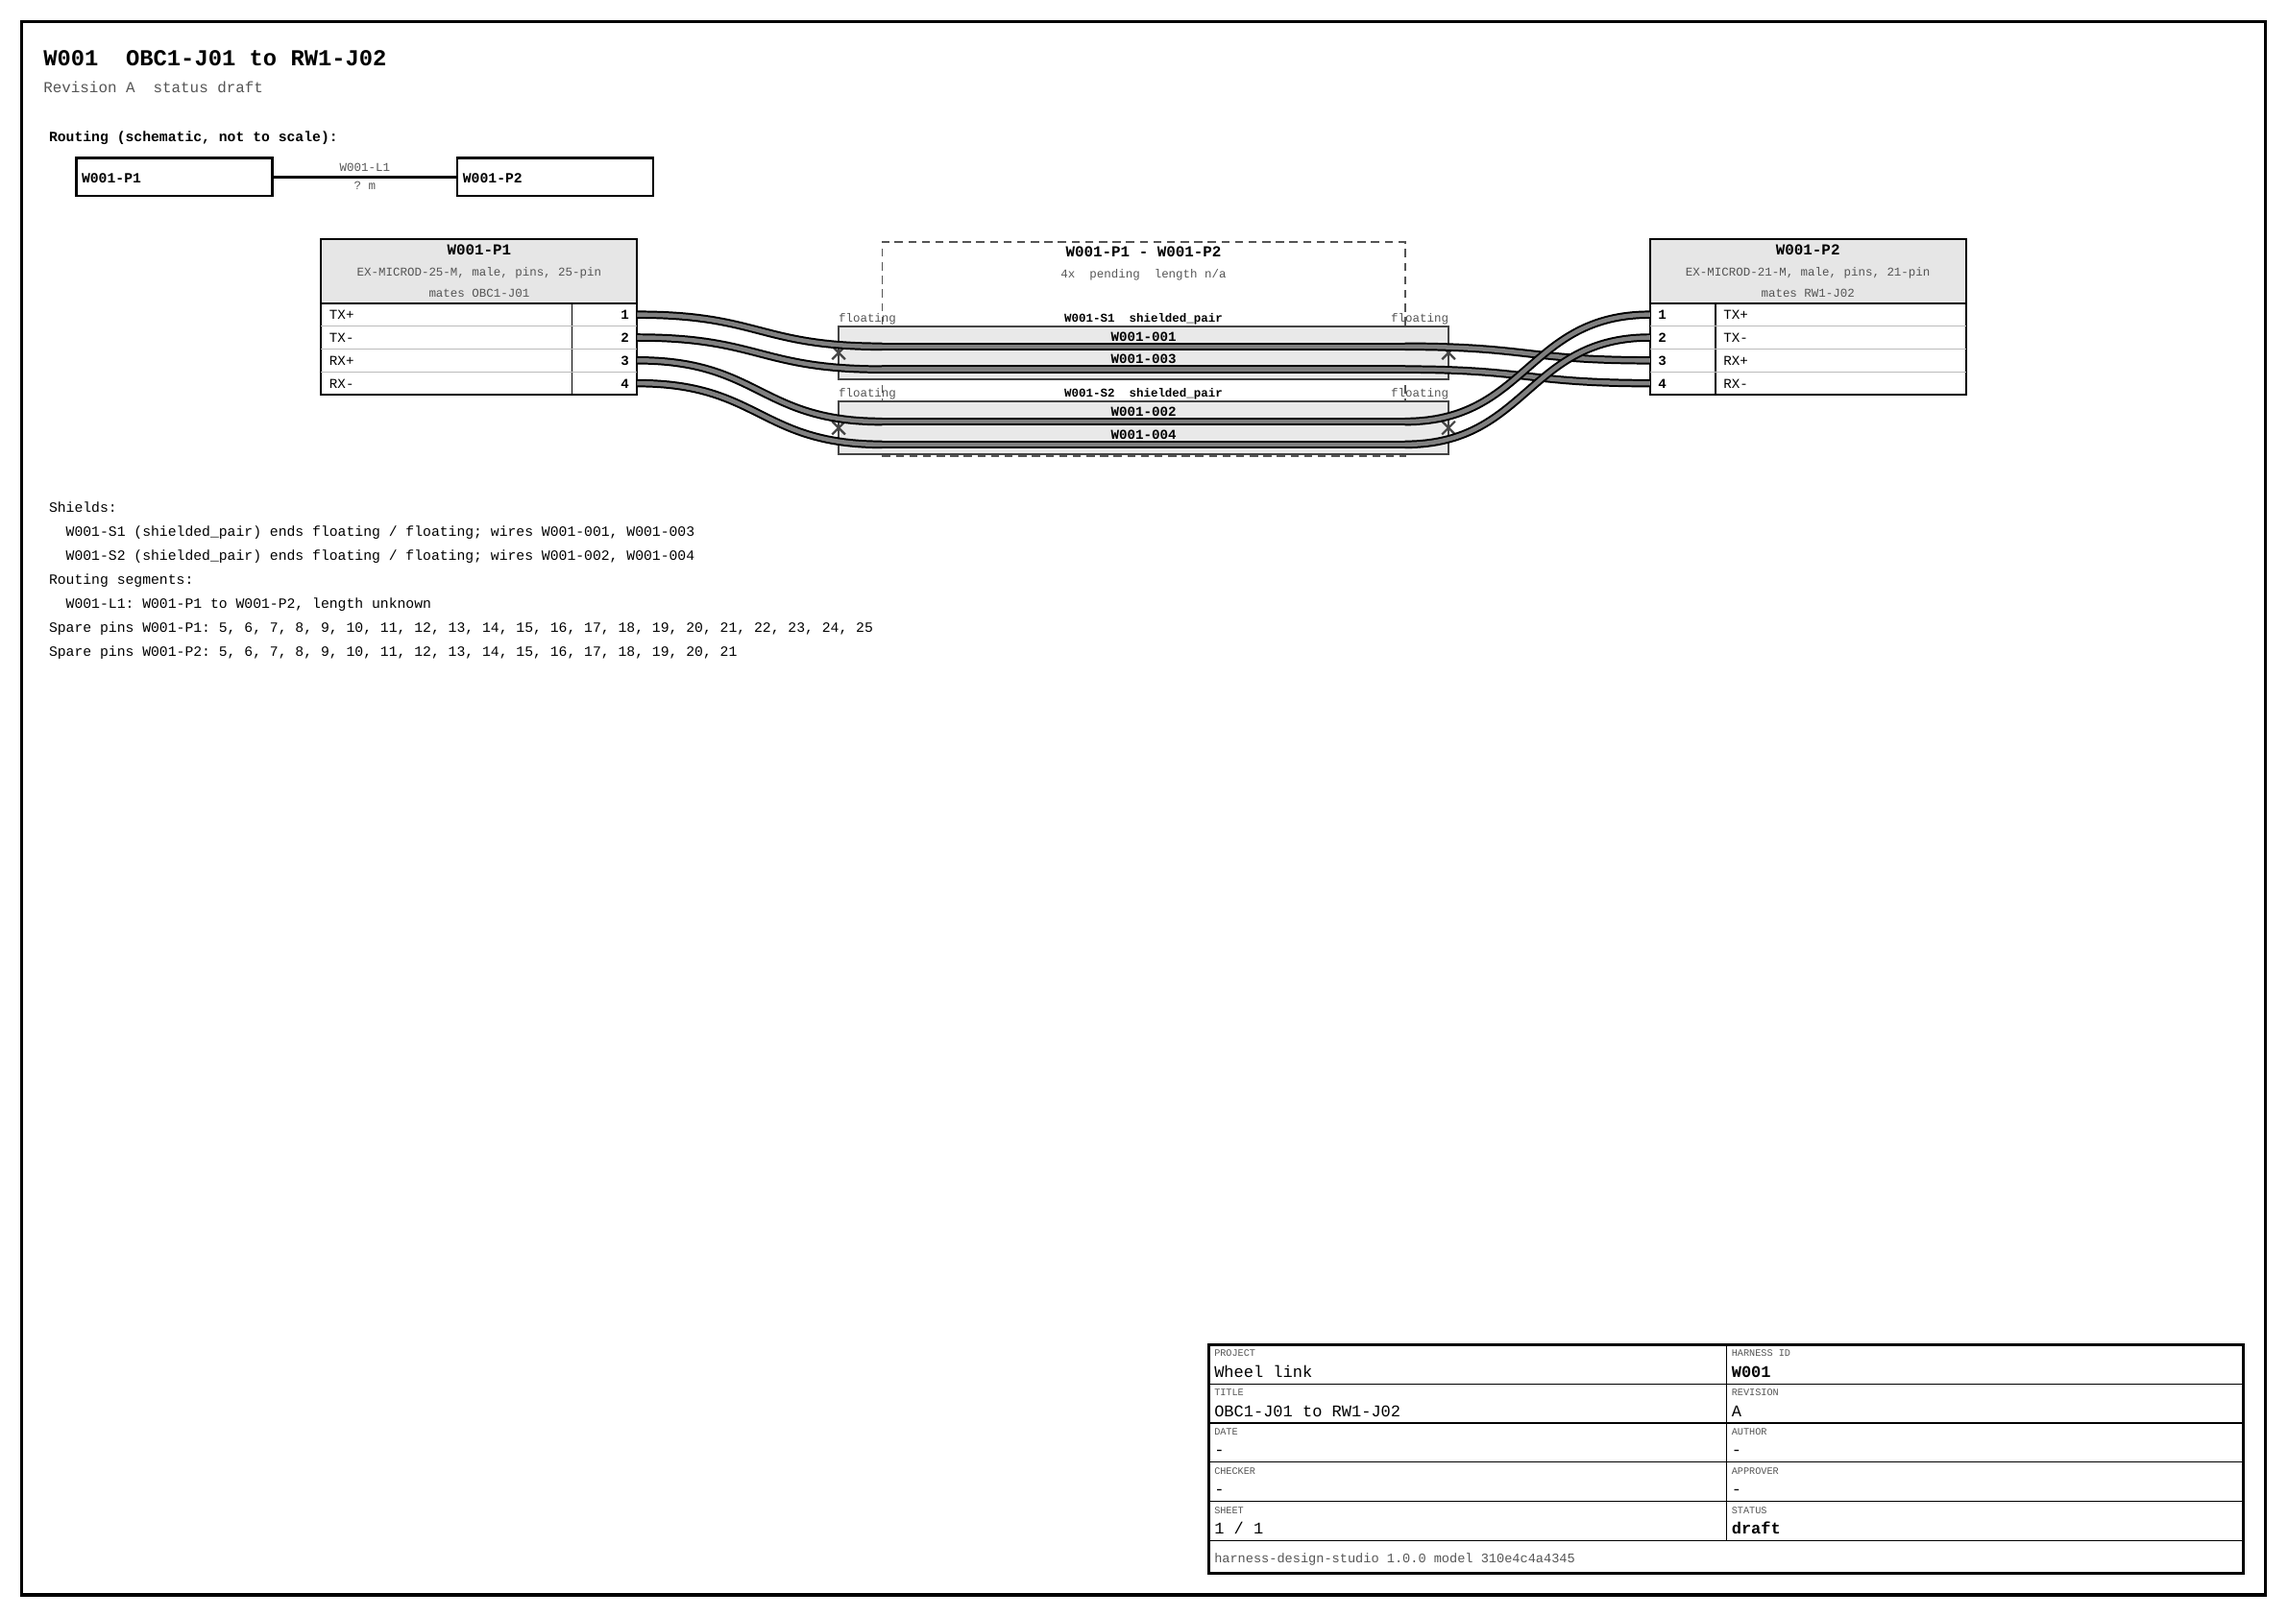
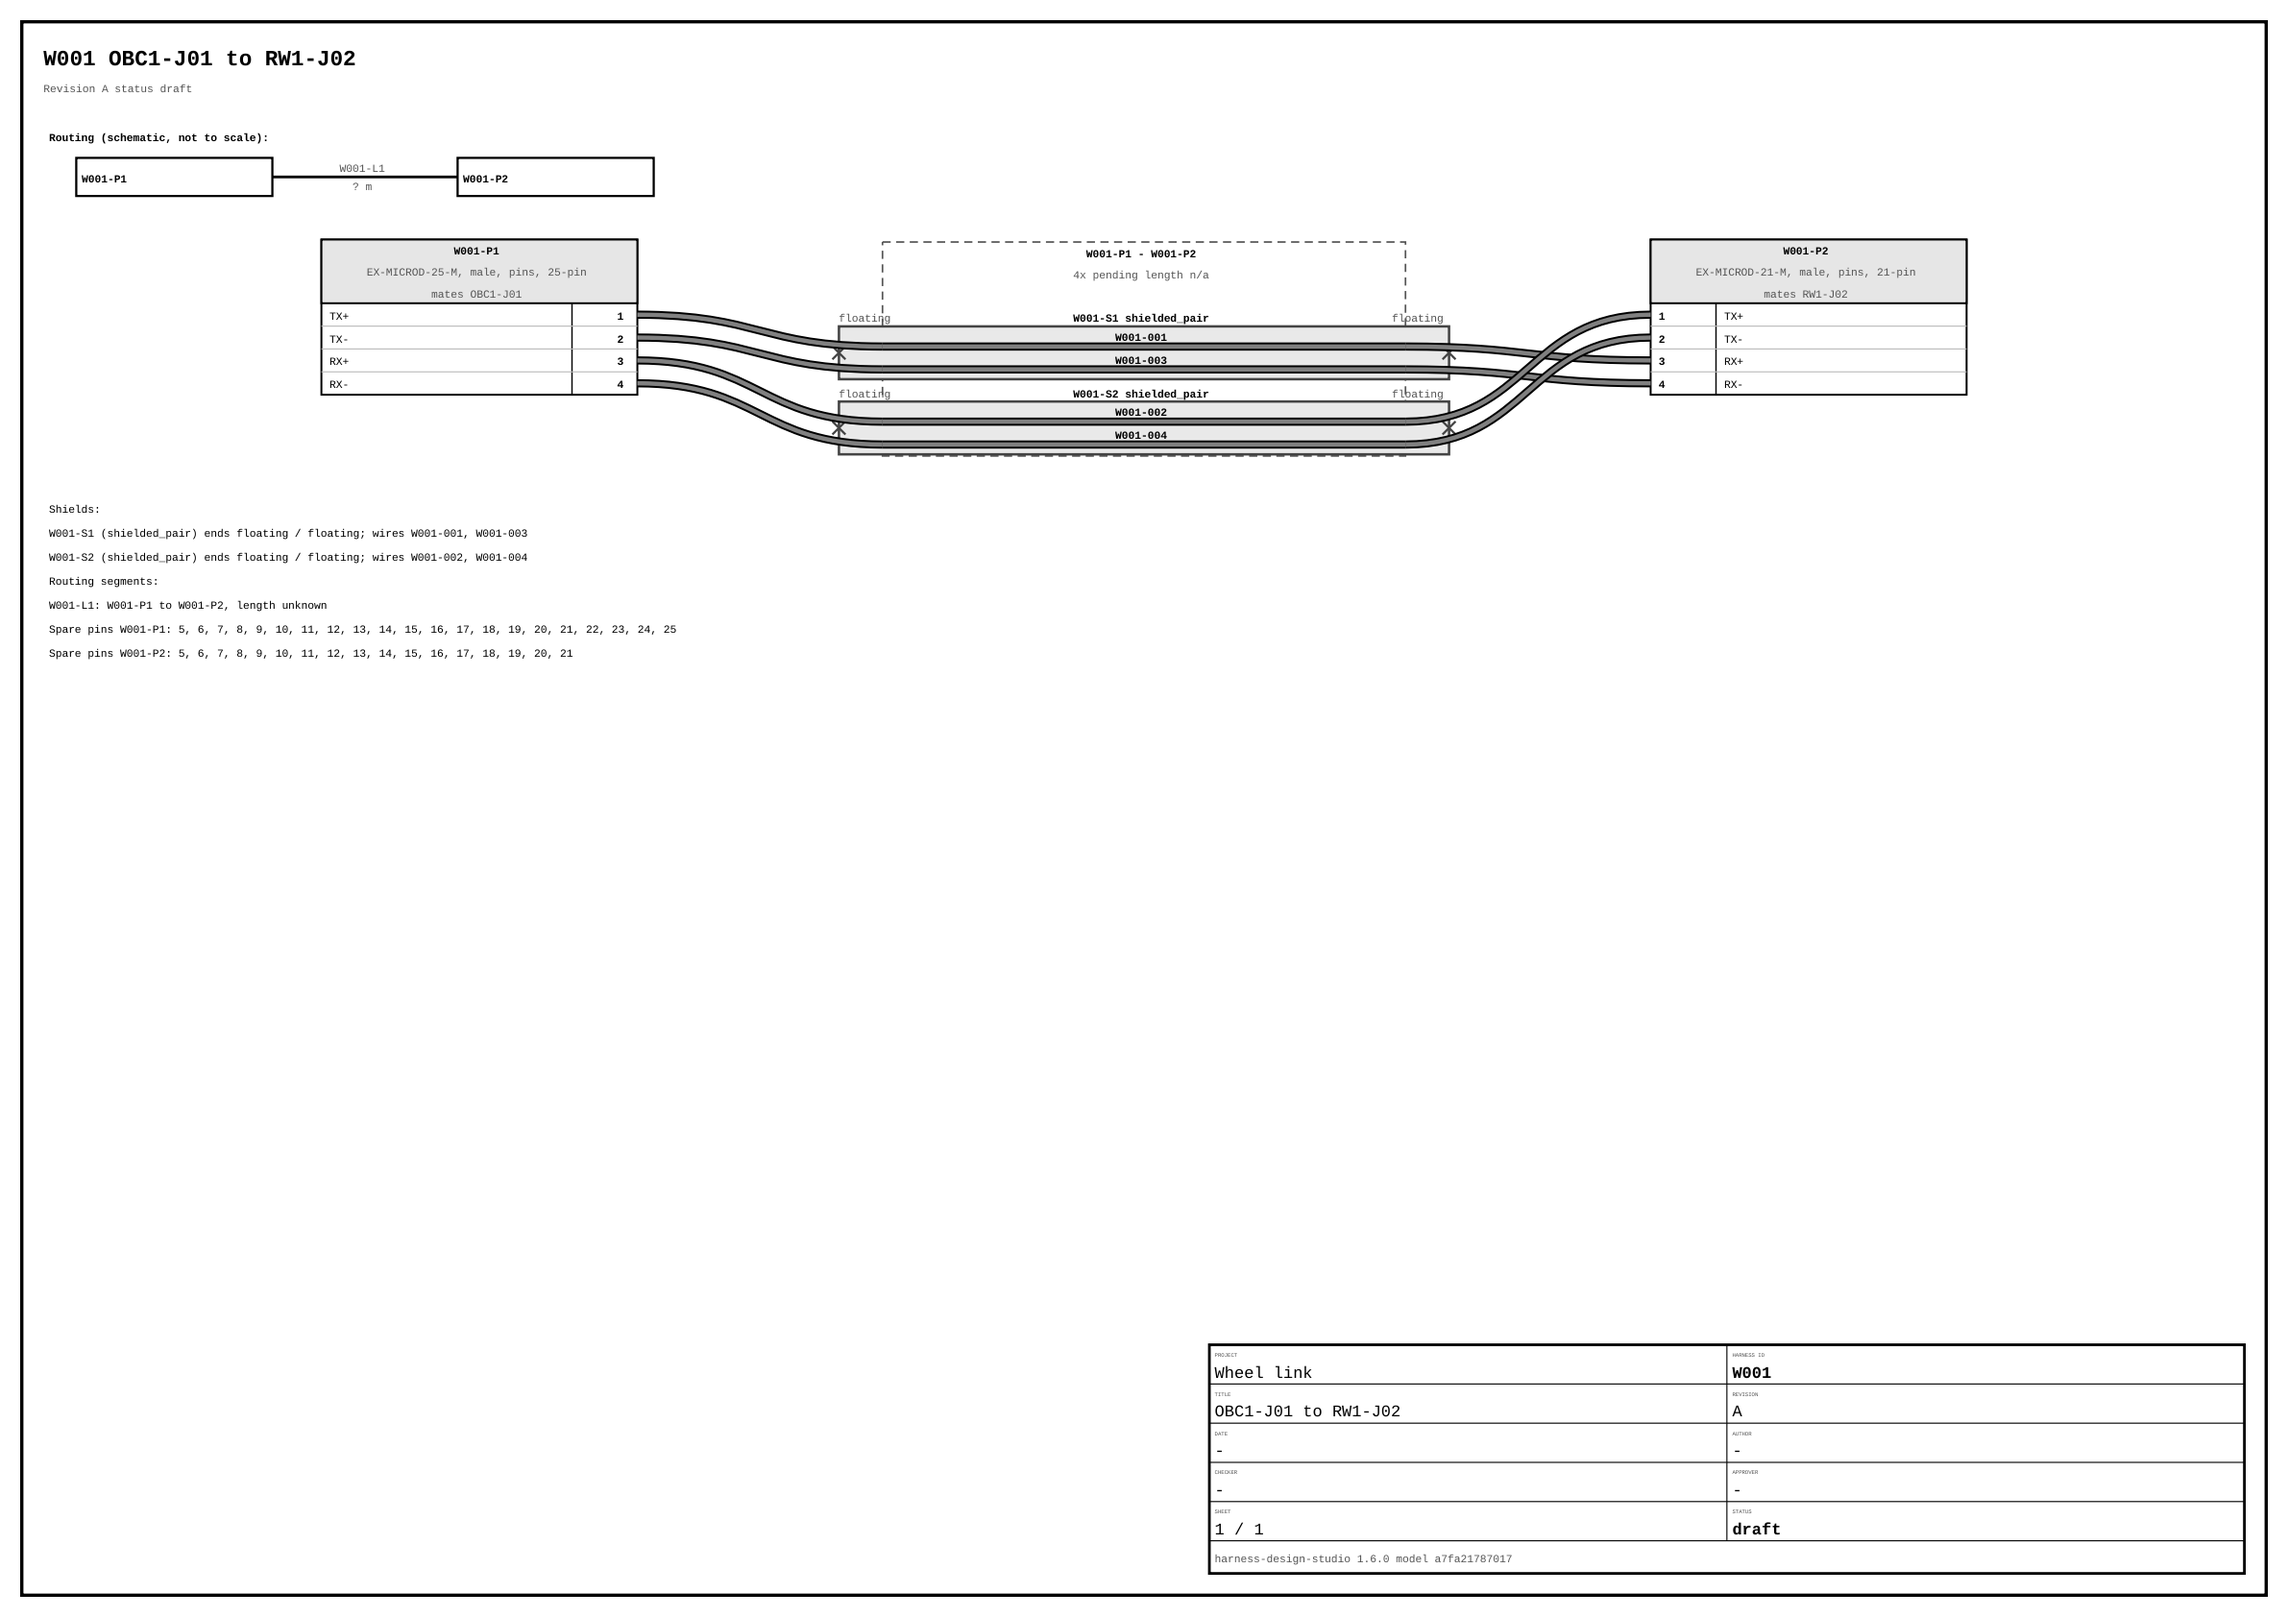
Pictures redone with 1.6.0: the tutorial drawings (version and model hash), the tab pictures and the main window
The two tutorial drawings carried version 1.0.0 and the model hash 310e4c4a4345; they are now the W001 sheet and the
block diagram of the first export of the tutorial (1.6.0, a7fa21787017). docs-maintenance.md says how to redo them.

Claude-Session: https://claude.ai/code/session_01K7PmjFJdKvkUGQzZA5G9xT

diff --git a/HarnessDesignStudio/docs/developer/docs-maintenance.md b/HarnessDesignStudio/docs/developer/docs-maintenance.md
@@ -39,11 +39,11 @@ The tutorial `docs/GETTING_STARTED.md` is not generated, but `test_docs.py` runs
 
 | Pictures | Made by | Notes |
 | --- | --- | --- |
-| `docs/ux/qt/*.png` (the editor) | `QT_QPA_PLATFORM=offscreen python -m tools.gui_screenshots` | 26 pictures at 1440 x 900 (light theme): 01 to 13 show the built-in sample (tour, Guided and Expert, connecting, problems, import preview, delete, waiver, palette, dark theme, 150 %); 14 and up show the flatsat example (project tree and inspector, Harness, Lists, Checks, engineering values, plans out of date, export window, released locks, Releases, new revision, new project, import wizard, release dialog). The script waits for the design rule check and for messages to go away, so it takes about a minute. The project path in the status bar is a fixed folder under the system temp folder, so that runs match. In repeated runs on the machine used, 24 of the 26 files came out identical every time; 06 and 07 now and then differ by about a hundred pixels of one link route. Check `git diff --stat` and keep only meaningful changes. |
+| `docs/ux/qt/*.png` (the editor) | `QT_QPA_PLATFORM=offscreen python -m tools.gui_screenshots` | 26 pictures at 1440 x 900 (light theme): 01 to 13 show the built-in sample (tour, Guided and Expert, connecting, problems, import preview, delete, waiver, palette, dark theme, 150 %); 14 and up show the flatsat example (project tree and inspector, Harness, Lists, Checks, engineering values, plans out of date, export window, released locks, Releases, new revision, new project, import wizard, release dialog). The script waits for the design rule check and for messages to go away, so it takes about a minute. The project path in the status bar is a fixed folder under the system temp folder, so that runs match. In repeated runs on the machine used, 24 of the 26 files came out identical every time; 06 and 07 now and then differ by about a hundred pixels of one link route. Check `git diff --stat` and keep only meaningful changes. The status bar shows the time of the last check, so every file differs from the committed one by a few pixels on every run; only `02-guided-main.png` is used by a document (the tutorial), and it was redone for 1.6.0, the other files were left as made by 1.3.0. |
 | `docs/ui/screenshots/before/*.png` and `after/*.png` (the UI overhaul: release 1.2.0 and 1.3.0) | `QT_QPA_PLATFORM=offscreen python -m tools.ui_screenshots OUT` (`OUT` is `docs/ui/screenshots/after`; never run it without a folder, it would overwrite `before`) | Every area, tab, panel, menu and dialog on the flatsat example at 1440 x 900, plus narrow, wide, scaled, empty and stress variants, each in the light and the dark theme (`_light`, `_dark` in the name): 87 files in `before`, 103 in `after` when this page was checked. The script runs each theme and part in a process of its own; how long it takes was not timed for this page. `before` is the record of 1.2.0 made with that version's editor: do not refresh it. The comparison text is [`../ui/BEFORE_AFTER.md`](../ui/BEFORE_AFTER.md) (not generated; edit it when `after` changes). |
 | `docs/img/flatsat-overview.png`, `flatsat-focus.png` | `QT_QPA_PLATFORM=offscreen python -m tools.flatsat_screenshots` | The diagram only (the docks are hidden), 1600 x 1000 window, legend open. Two runs gave identical files. |
 | `docs/img/edit-wire-tab.png`, `docs/img/devices-tab.png`, `docs/img/connectors-tab.png` | `QT_QPA_PLATFORM=offscreen python -m tools.tab_screenshots` | The whole window (1760 x 1000, light theme): the first two on the flatsat example, for `user-manual/edit-a-wire.md` and `user-manual/define-a-device.md`; the third on a harness made by hand in a new project, for `user-manual/build-a-harness-by-hand.md`. Redraw them when the tab changes. |
-| `docs/img/w001-drawing.png`, `docs/img/block-diagram.png` (the tutorial) | no script in the repository | They are the exported SVG sheets of the tutorial project, rendered to PNG with Qt's SVG renderer and cropped. They carry the model hash of the tutorial, so redo them when the hash changes. |
+| `docs/img/w001-drawing.png`, `docs/img/block-diagram.png` (the tutorial) | no script in the repository | They are the exported SVG sheets of the tutorial project, rendered to PNG with Qt's SVG renderer and cropped. They carry the tool version and the model hash of the tutorial, so redo them when the version or the hash changes (they were redone for 1.6.0, hash `a7fa21787017`). To redo them: run the first three commands of the tutorial and `export` in a scratch folder (`new wheel-link --template first-steps`, `generate`, `export`); render `outputs/harnesses/W001/drawing_A3_s1.svg` and `outputs/system/block_diagram.svg` offscreen (`QT_QPA_PLATFORM=offscreen`) with `QSvgRenderer` into a 2382 x 1684 image (the A3 sheet at about 5.67 pixels per millimetre) on a white ground; the SVG names `Courier New, Courier, monospace`, which Qt does not map by itself, so render a copy of the file with `font-family="Liberation Mono"` (any metric-compatible monospace face); keep the harness sheet whole and crop the block diagram to its content (the sheet border left out, about 734 x 639 pixels). Check that the version and the hash at the bottom of the drawing equal the ones the tutorial prints. |
 | `docs/ux/screens/*.png` (the HTML prototype, history) | `python -m tools.ux_screenshots` (needs Playwright) | Kept as history. Do not refresh. |
 
 The numbers in the notes of the first row (how many files were identical between runs) were measured with an earlier editor and were not measured again for the interface of 1.3.0. There are no pictures of the generate preview and the wire colours window.

diff --git a/HarnessDesignStudio/docs/GETTING_STARTED.md b/HarnessDesignStudio/docs/GETTING_STARTED.md
@@ -71,7 +71,7 @@ INFO    placeholder_config: Placeholder rule configuration still in use: deratin
 
 ## Part 2: look around
 
-![The main window of version 1.3.0: the navigation rail on the left, the top bar with Generate, Check and Release, the diagram in the middle, the project panel on the left and the Inspector on the right](ux/qt/02-guided-main.png)
+![The main window of version 1.6.0: the navigation rail on the left, the top bar with Generate, Check and Release, the diagram in the middle, the project panel on the left and the Inspector on the right](ux/qt/02-guided-main.png)
 
 *(The screenshot shows the app's built-in sample, which uses slightly different IDs such as `OBC` and `IF-PWR-RW1`; the layout is the same.)*
 
@@ -184,7 +184,7 @@ The files are checked independently before they are written; if that check fails
 | `system/harness_overview.pdf`, `box_pinouts.csv`, `mating_matrix.csv`, `traceability.csv` | all harnesses at a glance; the pinout of every unit connector; which cable mates with which unit; which interface is carried by which wires |
 | `system/drc_report.md`, `changelog.csv`, `revision_report.md`, `export.json` | the Problems report; the change log; the revision report; the whole model as one JSON |
 
-The harness drawing, with a title block and the model hash at the bottom (the picture was made with an older version, so its version and hash differ from the ones your tool prints):
+The harness drawing, with a title block and the model hash at the bottom (the picture is the `W001` sheet of the first export of this tutorial, made with 1.6.0, so the version and the model hash at the bottom are the ones your tool prints; with another version they differ):
 
 ![A harness drawing](img/w001-drawing.png)
 

diff --git a/HarnessDesignStudio/docs/user-manual/define-a-device.md b/HarnessDesignStudio/docs/user-manual/define-a-device.md
@@ -68,7 +68,7 @@ The **Direction** and **Class** columns come from the interface type of the pin'
 
 ![The Devices tab for the unit BAT1: the connector list, the card with the part, a Label field, the pin table with the Function column, and the buttons Add from library, Save to library, Duplicate and Export pinout](../img/devices-tab.png)
 
-*The Devices tab on the `flatsat` example (version 1.4.0).*
+*The Devices tab on the `flatsat` example (version 1.6.0).*
 
 ## Take the pinout from a spreadsheet
 
